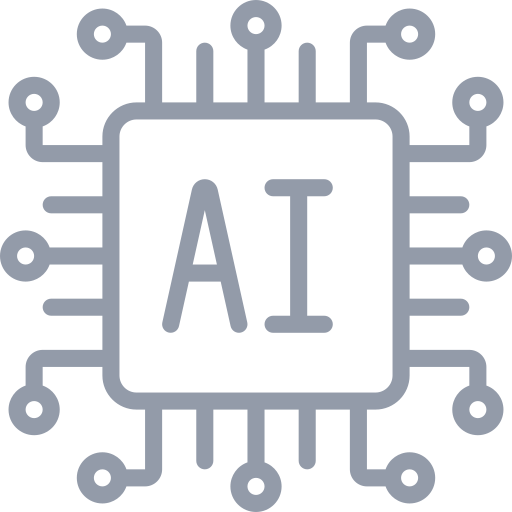
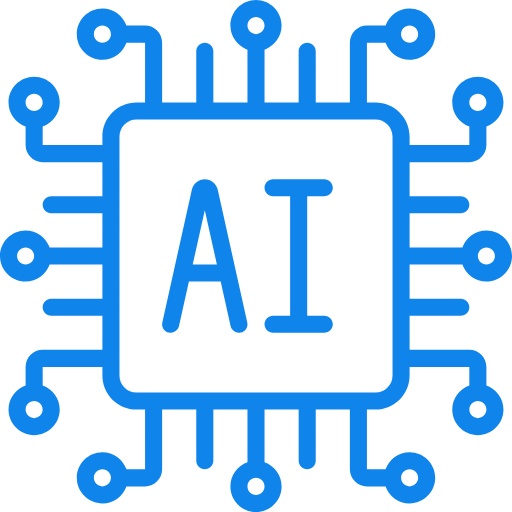
Updated UI

Changed region(s): [[0.0, 0.0, 1.0, 1.0], [0.3125, 0.3438, 0.6562, 0.6562]]

diff --git a/src/Components/contactus.jsx b/src/Components/contactus.jsx
@@ -28,62 +28,61 @@ const Contact = () => {
 
   return (
 
-        <div className="w-full p-8 my-12 md:px-12 lg:w-9/12 lg:pl-20 lg:pr-40  rounded-2xl shadow-2xl mx-auto ">
-          <form onSubmit={onSubmit}>
-            <div className="flex ">
-              <h1 className="font-bold uppercase text-5xl flex">Send us a message</h1>
-            </div>
-            <div className="grid grid-cols-1 gap-5 md:grid-cols-1 mt-">
-              <input 
-                className="w-full bg-gray-6 text-gray-900 mt-2 p-3 rounded-lg focus:outline-none focus:shadow-outline" 
-                type="text" 
-                name="first_name" 
-                placeholder="First Name*" 
-                required 
-              />
-              <input 
-                className="w-full bg-gray-6 text-gray-900 mt-2 p-3 rounded-lg focus:outline-none focus:shadow-outline" 
-                type="text" 
-                name="last_name" 
-                placeholder="Last Name*" 
-                required 
-              />
-              <input 
-                className="w-full bg-gray-6 text-gray-900 mt-2 p-3 rounded-lg focus:outline-none focus:shadow-outline" 
-                type="email" 
-                name="email" 
-                placeholder="Email*" 
-                required 
-              />
-              <input 
-                className="w-full bg-gray-6 text-gray-900 mt-2 p-3 rounded-lg focus:outline-none focus:shadow-outline" 
-                type="number" 
-                name="phone" 
-                placeholder="Phone*" 
-                required 
-              />
-            </div>
-            <div className="my-4">
-              <textarea 
-                name="message" 
-                placeholder="Message*" 
-                className="w-full h-32 bg-gray-6 text-gray-900 mt-2 p-3 rounded-lg focus:outline-none focus:shadow-outline" 
-                required 
-              ></textarea>
-            </div>
-            <div className="my-2 w-1/2 lg:w-1/4 mx-auto">
-              <button 
-                type="submit" 
-                className="uppercase text-sm font-bold tracking-wide bg-blue-1 text-gray-100 p-3 rounded-lg w-full focus:outline-none focus:shadow-outline"
-              >
-                Send Message
-              </button>
-            </div>
-            <span className="block mt-4 text-green-500 text-2xl font-bold">{result}</span>
-          </form>
-        </div>
-        
-   
+    <div className="w-full p-8 my-12 md:px-12 lg:w-9/12 lg:pl-20 lg:pr-40 rounded-2xl shadow-2xl mx-auto text-center border-4 border-gray-4 lg:pl-[100px] lg:pr-[100px]">
+    <form onSubmit={onSubmit} className="justify-center w-full">
+      <div className="flex justify-center">
+        <h1 className="uppercase text-5xl flex font-bold text-blue-bg mb-10">Send us a message</h1>
+      </div>
+      <div className="grid grid-cols-1 gap-5 md:grid-cols-1 w-full">
+        <input 
+          className="w-full bg-gray-6 text-gray-900 mt-2 p-3 rounded-lg focus:outline-none focus:shadow-outline" 
+          type="text" 
+          name="first_name" 
+          placeholder="First Name*" 
+          required 
+        />
+        <input 
+          className="w-full bg-gray-6 text-gray-900 mt-2 p-3 rounded-lg focus:outline-none focus:shadow-outline" 
+          type="text" 
+          name="last_name" 
+          placeholder="Last Name*" 
+          required 
+        />
+        <input 
+          className="w-full bg-gray-6 text-gray-900 mt-2 p-3 rounded-lg focus:outline-none focus:shadow-outline" 
+          type="email" 
+          name="email" 
+          placeholder="Email*" 
+          required 
+        />
+        <input 
+          className="w-full bg-gray-6 text-gray-900 mt-2 p-3 rounded-lg focus:outline-none focus:shadow-outline" 
+          type="number" 
+          name="phone" 
+          placeholder="Phone*" 
+          required 
+        />
+      </div>
+      <div className="my-4">
+        <textarea 
+          name="message" 
+          placeholder="Message*" 
+          className="w-full h-32 bg-gray-6 text-gray-900 mt-2 p-3 rounded-lg focus:outline-none focus:shadow-outline" 
+          required 
+        ></textarea>
+      </div>
+      <div className="my-2 w-1/2 lg:w-1/4 mx-auto mt-10">
+        <button 
+          type="submit" 
+          className="uppercase text-gray-5 text-medium font-bold tracking-wide bg-blue-1 text-gray-100 p-3 rounded-lg w-full focus:outline-none focus:shadow-outline transform transition duration-200 hover:scale-100 hover active:bg-blue-500 active:text-white active:scale-95"
+          >
+          Send Message
+        </button>
+      </div>
+      <span className="block mt-4 text-green-500 text-2xl font-bold">{result}</span>
+    </form>
+  </div>
+  
   );
 };
 

diff --git a/src/Components/CustomerTestimonials.jsx b/src/Components/CustomerTestimonials.jsx
@@ -2,10 +2,10 @@ export const CustomerTestimonials = () => {
   return (
     <section className="text-gray-700 dark:text-neutral-300 my-10  py-10">
       <div className="mx-auto text-center md:max-w-xl lg:max-w-3xl">
-        <h3 className="mb-6 text-3xl md:text-4xl lg:text-6xl font-bold text-gray-900">
+        <h3 className="mb-6 text-3xl md:text-4xl lg:text-6xl font-bold text-blue-bg">
           Testimonials
         </h3>
-        <p className="mb-6 pb-2 md:mb-12 md:pb-0 text-gray-600">
+        <p className="mb-6 pb-2 md:mb-12 md:pb-0 font-bold text-gray-2 text-b">
           Here are some success stories from our clients who have leveraged our
           software solutions at OctaForge.
         </p>
@@ -13,7 +13,7 @@ export const CustomerTestimonials = () => {
 
       <div className="grid gap-6 text-center grid-cols-1 md:grid-cols-2 lg:grid-cols-3">
         <div className="flex justify-center">
-          <div className="block rounded-lg bg-white shadow-lg dark:bg-neutral-700 dark:shadow-black/0 w-full max-w-sm h-[400px]">
+          <div className="rounded-[25px] border-[5px] border-gray-4 bg-gray-6  block rounded-lg bg-white shadow-lg dark:bg-neutral-700 dark:shadow-black/0 w-full max-w-sm h-[400px]">
             <div className="h-28 overflow-hidden rounded-t-lg bg-[#2BB9F4]"></div>
             <div className="mx-auto -mt-12 w-24 overflow-hidden rounded-full border-2 border-white bg-white dark:border-neutral-800 dark:bg-neutral-800">
               <img src="https://tecdn.b-cdn.net/img/Photos/Avatars/img%20(1).webp" />
@@ -38,7 +38,7 @@ export const CustomerTestimonials = () => {
           </div>
         </div>
         <div className="flex justify-center">
-          <div className="block rounded-lg bg-white shadow-lg dark:bg-neutral-700 dark:shadow-black/30 w-full max-w-sm h-[400px]">
+          <div className=" rounded-[25px] border-[5px] border-gray-4 bg-gray-6  block rounded-lg bg-white shadow-lg dark:bg-neutral-700 dark:shadow-black/30 w-full max-w-sm h-[400px]">
             <div className="h-28 overflow-hidden rounded-t-lg bg-[#0F85EC]"></div>
             <div className="mx-auto -mt-12 w-24 overflow-hidden rounded-full border-2 border-white bg-white dark:border-neutral-800 dark:bg-neutral-800">
               <img src="https://tecdn.b-cdn.net/img/Photos/Avatars/img%20(2).webp" />
@@ -63,7 +63,7 @@ export const CustomerTestimonials = () => {
           </div>
         </div>
         <div className="flex justify-center">
-          <div className="block rounded-lg bg-white shadow-lg dark:bg-neutral-700 dark:shadow-black/30 w-full max-w-sm h-[400px]">
+          <div className="rounded-[25px] border-[5px] border-gray-4 bg-gray-6  block rounded-lg bg-white shadow-lg dark:bg-neutral-700 dark:shadow-black/30 w-full max-w-sm h-[400px]">
             <div className="h-28 overflow-hidden rounded-t-lg bg-[#47EDFC]"></div>
             <div className="mx-auto -mt-12 w-24 overflow-hidden rounded-full border-2 border-white bg-white dark:border-neutral-800 dark:bg-neutral-800">
               <img src="https://tecdn.b-cdn.net/img/Photos/Avatars/img%20(9).webp" />

diff --git a/src/Components/UI/NavigationBar.jsx b/src/Components/UI/NavigationBar.jsx
@@ -15,7 +15,7 @@ const NavigationBar = () => {
           <a className="text-lg font-bold font-heading text-gray-3 pl-0" href="#home">
             <img className="ml-0 pl-0 h-10" src={Logo} alt="logo" />
           </a>
-          <ul className="sm:hidden hidden md:flex lg:flex xl:flex px-4 mx-auto font-medium font-heading space-x-12">
+          <ul className="sm:hidden hidden md:flex lg:flex xl:flex px-4 mx-auto font-bold font-heading space-x-12">
             <li><a className="text-gray-3 hover:text-gray-2 transition-colors duration-300 font-Poppins" href="#home">Home</a></li>
             <li><a className="text-gray-3 hover:text-gray-2 transition-colors duration-300 font-Poppins" href="#services">Services</a></li>
             <li><a className="text-gray-3 hover:text-gray-2 transition-colors duration-300 font-Poppins" href="#techstack">Tech Stack</a></li>
@@ -40,7 +40,7 @@ const NavigationBar = () => {
           </button>
         </div>
         <div className={`w-full px-5 xl:px-12 py-0 bg-gray-900 transform transition-all duration-200 ease-in-out ${isMenuOpen ? "max-h-screen opacity-100" : "max-h-0  opacity-0 overflow-hidden"}`}>
-          <ul className="flex flex-col space-y-4 font-medium font-heading">
+          <ul className="flex flex-col space-y-4 font-bold font-heading">
             <li><a className="text-gray-3 hover:text-gray-2 transition-colors duration-300 font-Poppins" href="#home">Home</a></li>
             <li><a className="text-gray-3 hover:text-gray-2 transition-colors duration-300 font-Poppins" href="#services">Services</a></li>
             <li><a className="text-gray-3 hover:text-gray-2 transition-colors duration-300 font-Poppins" href="#techstack">Tech Stack</a></li>

diff --git a/src/Components/Service.jsx b/src/Components/Service.jsx
@@ -38,17 +38,17 @@ const Service = () => {
         <>
         <div className = "my-20">
             <div className="mx-auto text-center md:max-w-xl lg:max-w-3xl my-6">
-                <h3 className="mb-6 text-4xl md:text-5xl lg:text-6xl font-bold text-gray-900">
+                <h3 className="mb-6 text-4xl md:text-5xl lg:text-6xl font-bold text-blue-bg">
                     Our Services
                 </h3>
-                <p className="mb-6 pb-2 md:mb-12 md:pb-0 text-gray-600">
+                <p className="mb-6 pb-2 md:mb-12 md:pb-0 font-bold text-gray-2 text-b">
                 Transforming Ideas into Reality with Cutting-Edge Solutions
                 </p>
             </div>
 
             <div className="flex flex-wrap justify-center gap-3">
                 {Services.map(service => (
-                    <div key={service.id} className="bg-white  rounded-lg shadow-xl dark:bg-gray-700  m-4 sm:m-6 md:m-10 w-full sm:w-[300px] md:w-[350px] lg:w-[400px] transform hover:scale-105 transition-transform duration-200 ease-in-out">
+                    <div key={service.id} className="rounded-[25px] border-[5px] border-gray-4 bg-gray-6  rounded-lg shadow-xl dark:bg-gray-700  m-4 sm:m-6 md:m-10 w-full sm:w-[300px] md:w-[350px] lg:w-[400px] transform hover:scale-105 transition-transform duration-200 ease-in-out">
                         <div className="flex justify-center my-6">
                             <img
                                 className="rounded-t-lg"
@@ -70,6 +70,7 @@ const Service = () => {
                     </div>
                 ))}
             </div>
+            
 
             </div>
         </>

diff --git a/src/Components/Page.jsx b/src/Components/Page.jsx
@@ -11,7 +11,9 @@ const Page = () => {
   return (
     <main className="flex justify-center items-center flex-col w-full">
       <div className="w-full">
-        <NavigationBar />
+        <div className="fixed top-0 left-0 right-0 z-50">
+          <NavigationBar />
+         </div>
         <section id="home">
           <HomePage />
         </section>
@@ -21,9 +23,9 @@ const Page = () => {
         <section id="techstack">
           <TechStack />
         </section>
-        <section id="testimonials">
+        {/* <section id="testimonials">
           <CustomerTestimonials />
-        </section>
+        </section> */}
         <section id="contact">
           <Contact />
         </section>

diff --git a/src/Components/Home.jsx b/src/Components/Home.jsx
@@ -65,7 +65,7 @@ const HomePage = () => {
               </span>
               <div className="mt-2"></div>
             </h1>
-            <p className="mx-auto mt-3 max-w-xl text-lg text-gray-500 dark:text-slate-400 sm:mt-5 md:mt-5">
+            <p className="mx-auto mt-3 max-w-xl text-lg text-gray-1 dark:text-slate-400 sm:mt-5 md:mt-5">
               OctaForge is a pioneering software startup offering cutting-edge solutions in web and mobile app
               development, AI, UI/UX design, and data analysis. We transform your ideas into innovative and scalable
               digital solutions.

diff --git a/src/App.css b/src/App.css
@@ -17,6 +17,15 @@
   filter: drop-shadow(0 0 2em #61dafbaa);
 }
 
+input[type=number]::-webkit-outer-spin-button,
+  input[type=number]::-webkit-inner-spin-button {
+    -webkit-appearance: none;
+    margin: 0;
+  }
+  input[type=number] {
+    -moz-appearance: textfield;
+  }
+
 @keyframes logo-spin {
   from {
     transform: rotate(0deg);
@@ -25,6 +34,11 @@
     transform: rotate(360deg);
   }
 }
+
+html {
+  scroll-behavior: smooth;
+}
+
 
 @media (prefers-reduced-motion: no-preference) {
   a:nth-of-type(2) .logo {

diff --git a/src/Components/TechStack.jsx b/src/Components/TechStack.jsx
@@ -121,7 +121,7 @@ const TechStack = () => {
         </div>
       ))}
       <div className="absolute top-1/2 left-1/2 transform -translate-x-1/2 -translate-y-1/2 text-center z-20 bg-gray-100 bg-opacity-75 px-4 py-2 rounded-lg">
-        <h1 className="text-3xl md:text-4xl lg:text-6xl font-bold text-gray-800">Our Tech Stack</h1>
+        <h1 className="text-3xl md:text-4xl lg:text-6xl font-bold text-blue-bg">Our Tech Stack</h1>
       </div>
     </div>
   );
